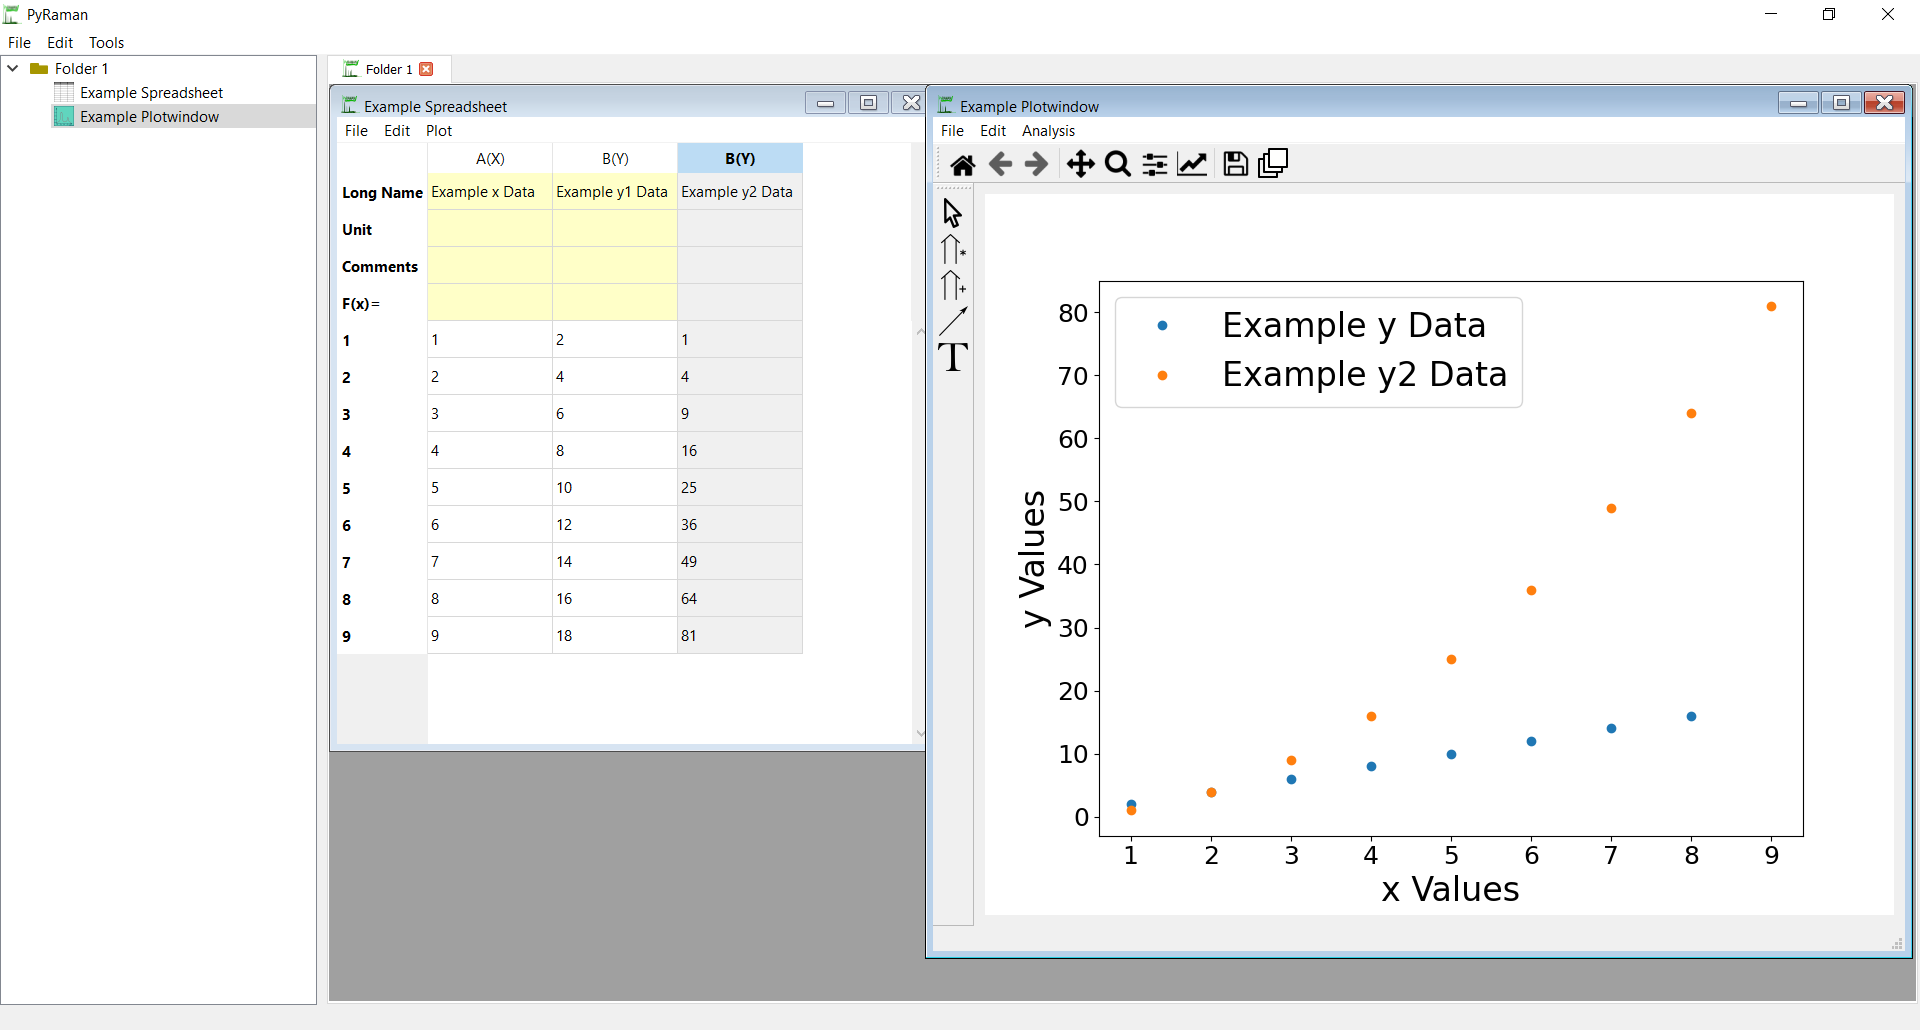
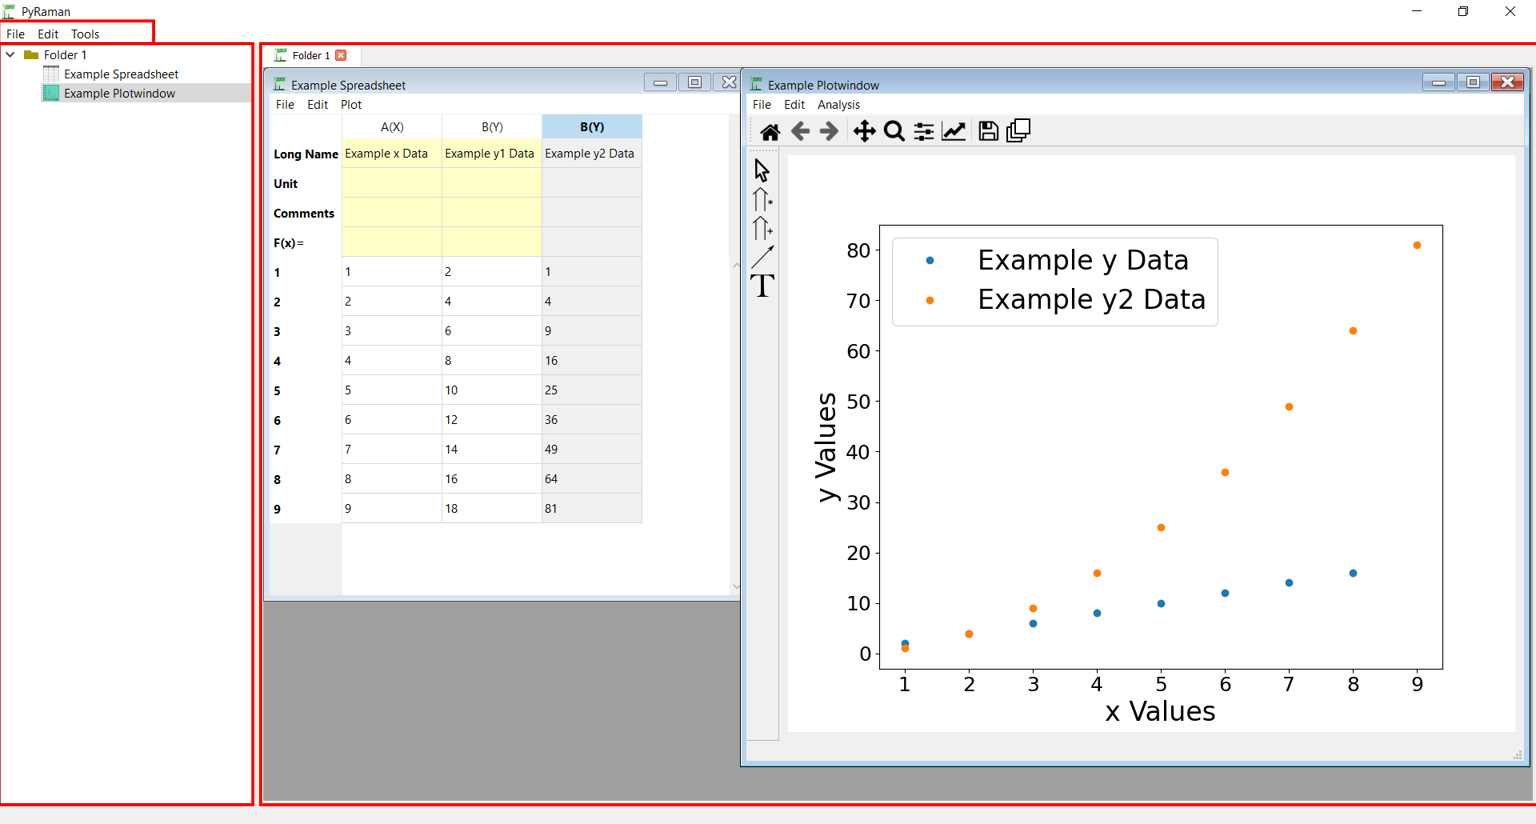
Tutorial

Changed region(s): [[0.0, 0.0, 1.0, 1.0]]

diff --git a/doc/Tutorial.html b/doc/Tutorial.html
@@ -3,7 +3,14 @@
 <head>
     <meta charset="UTF-8">
     <title>Tutorial PyCharm</title>
+    <style>
+    p img {
+          height: 1em;
+          width: auto;
+        }
+    </style>
 </head>
+
 <body>
 
 <h1> Introduction </h1>
@@ -13,16 +20,26 @@
     - Gui written in PyQt5
     </p>
 <h1> Installation </h1>
-- first install python
+<p>
+- first install python <br>
 - needed packages
+</p>
 
 <h2> General Structure </h2>
-    - structure is based on OriginLab
+    <p>
+        The structure of PyRaman is remotely based on OriginLab. It consists of three main parts framed in red in the
+        following picture; a menu bar at the top a side tree at the left and a workspace containing the open windows.
+        There are three different kinds of windows,
+        <i>Spreadsheets</i> <img src="pics\table.png" alt="Spreadsheet icon" height="1em">,
+        <i>Plotwindows</i> <img src="pics\PlotWindow.png" alt="Plotwindow icon" height="1em"> and
+        <i>Textwindows</i> <img src="pics\TextWindow.png" alt="Textwindow icon" height="1em">.
+        They are explained in more detail in the following sections.
+
+    </p>
     <br>
-    <img src="pics\Example_MainWindow.PNG" alt="Picture of main window" width="400">
+    <img src="pics\Example_MainWindow.PNG" alt="Picture of main window" width="75%">
 
 <h3> Spreadsheet </h3>
-
 
 <h3> Plotwindow </h3>
 
